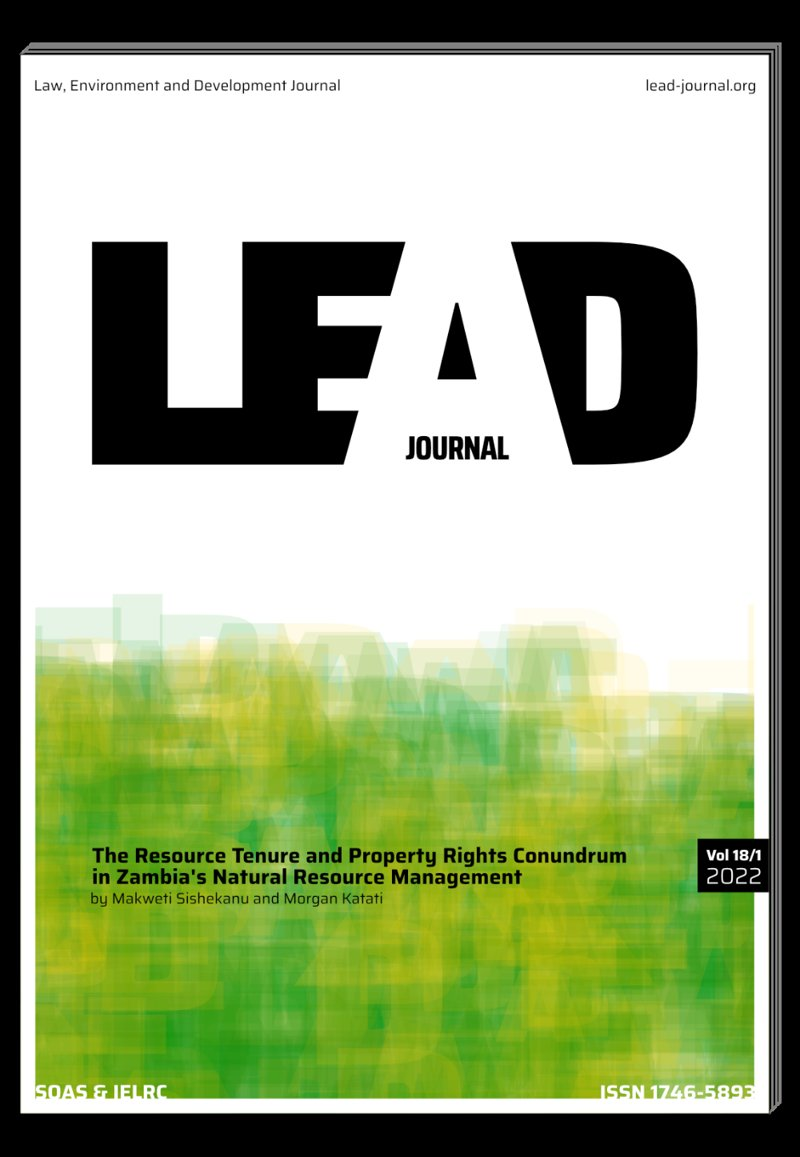
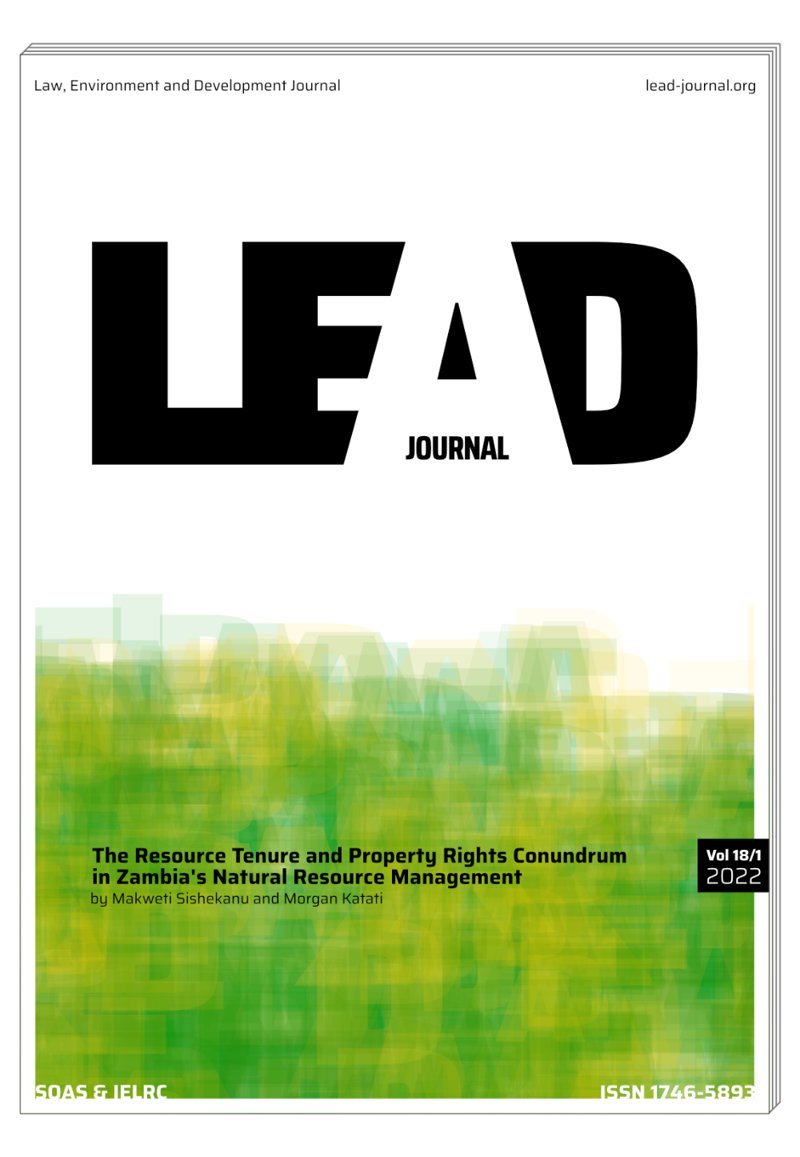
White background for LEAD covers; join split paragraph
Claude-Session: https://claude.ai/code/session_017SFxnkeNkLrH5QiUtYbyMH

Changed region(s): [[0.0, 0.0, 1.0, 1.0]]

diff --git a/lead-journal.md b/lead-journal.md
@@ -15,9 +15,7 @@ It is published online on the [LEAD Journal](https://lead-journal.org) website.
 
 The editors of the LEAD Journal invite original, unpublished manuscripts in the form of long or short Articles, Notes, Comments, and Book Reviews in the field of international and regional environmental law, and domestic environmental laws of developing countries.
 
-LEAD Journal adopts a broad view of the environment and also solicits writings,
-
-which examine the links between the environment and related concerns, such as human rights, poverty or trade.
+LEAD Journal adopts a broad view of the environment and also solicits writings which examine the links between the environment and related concerns, such as human rights, poverty or trade.
 
 LEAD Journal encourages scholarship, which combine theoretical and practical approaches to the study of environmental law and practice.
 
